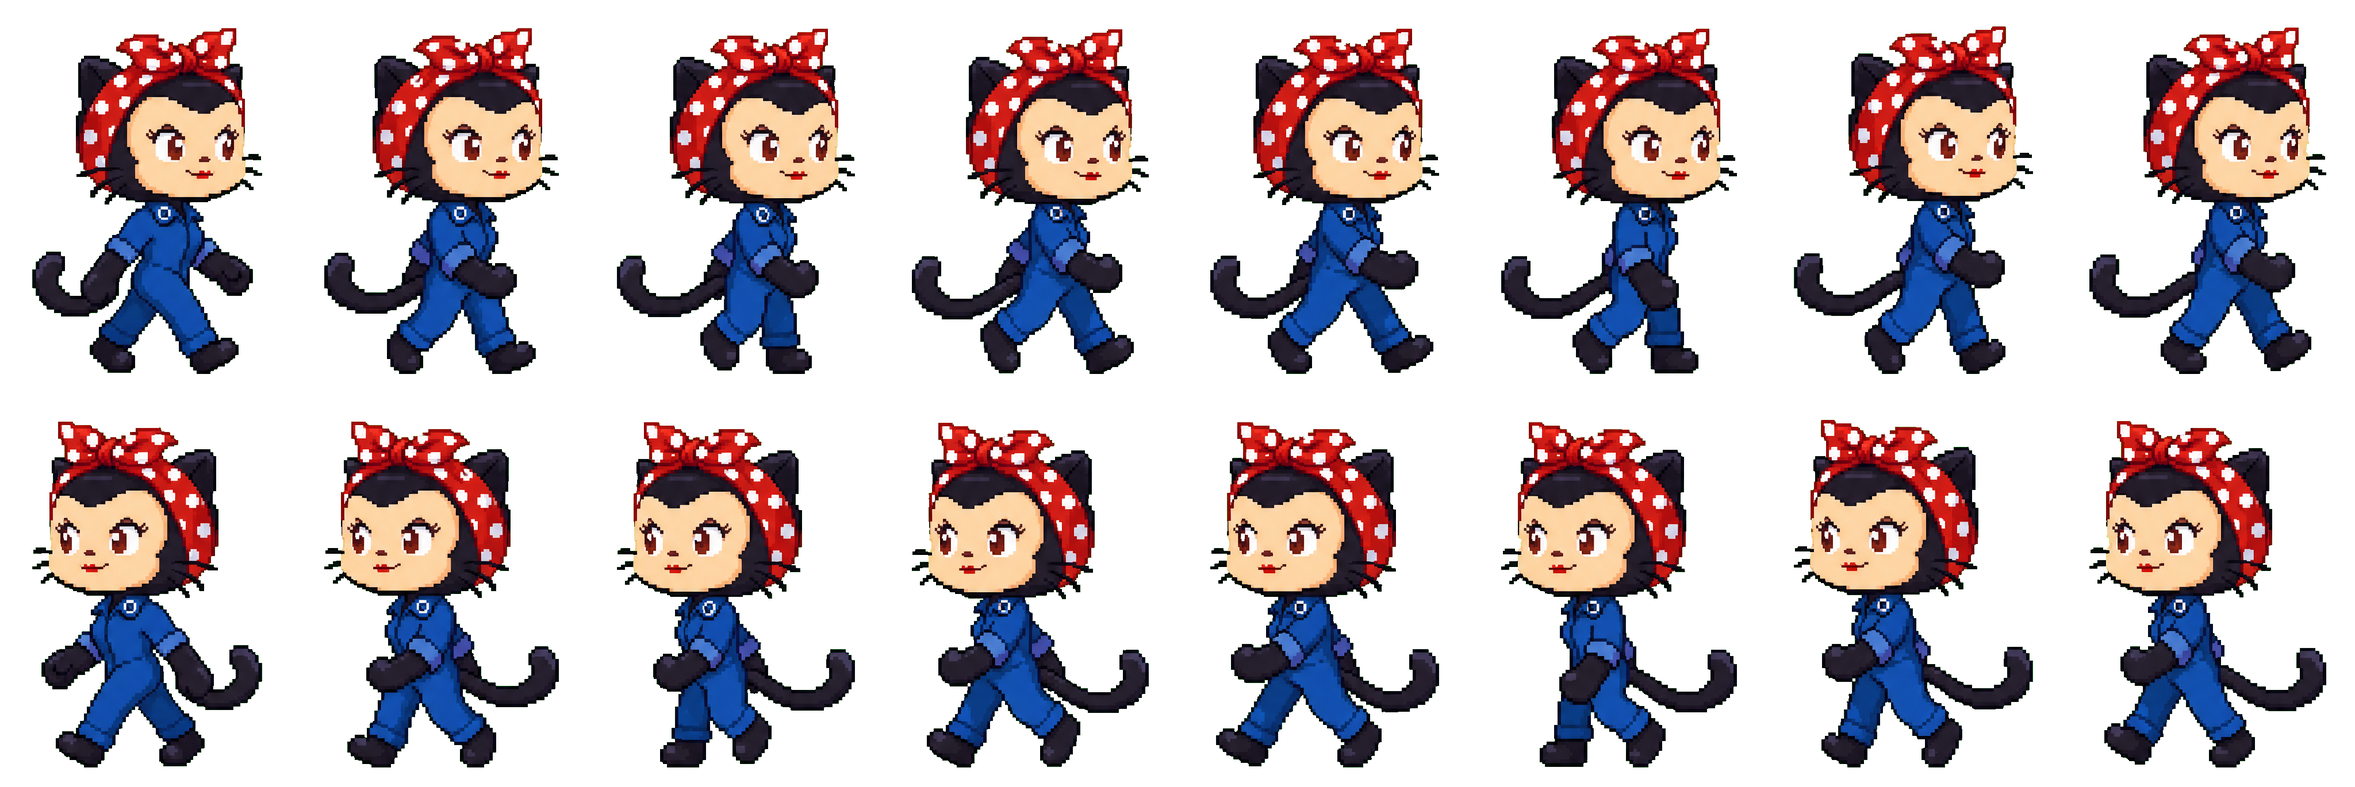
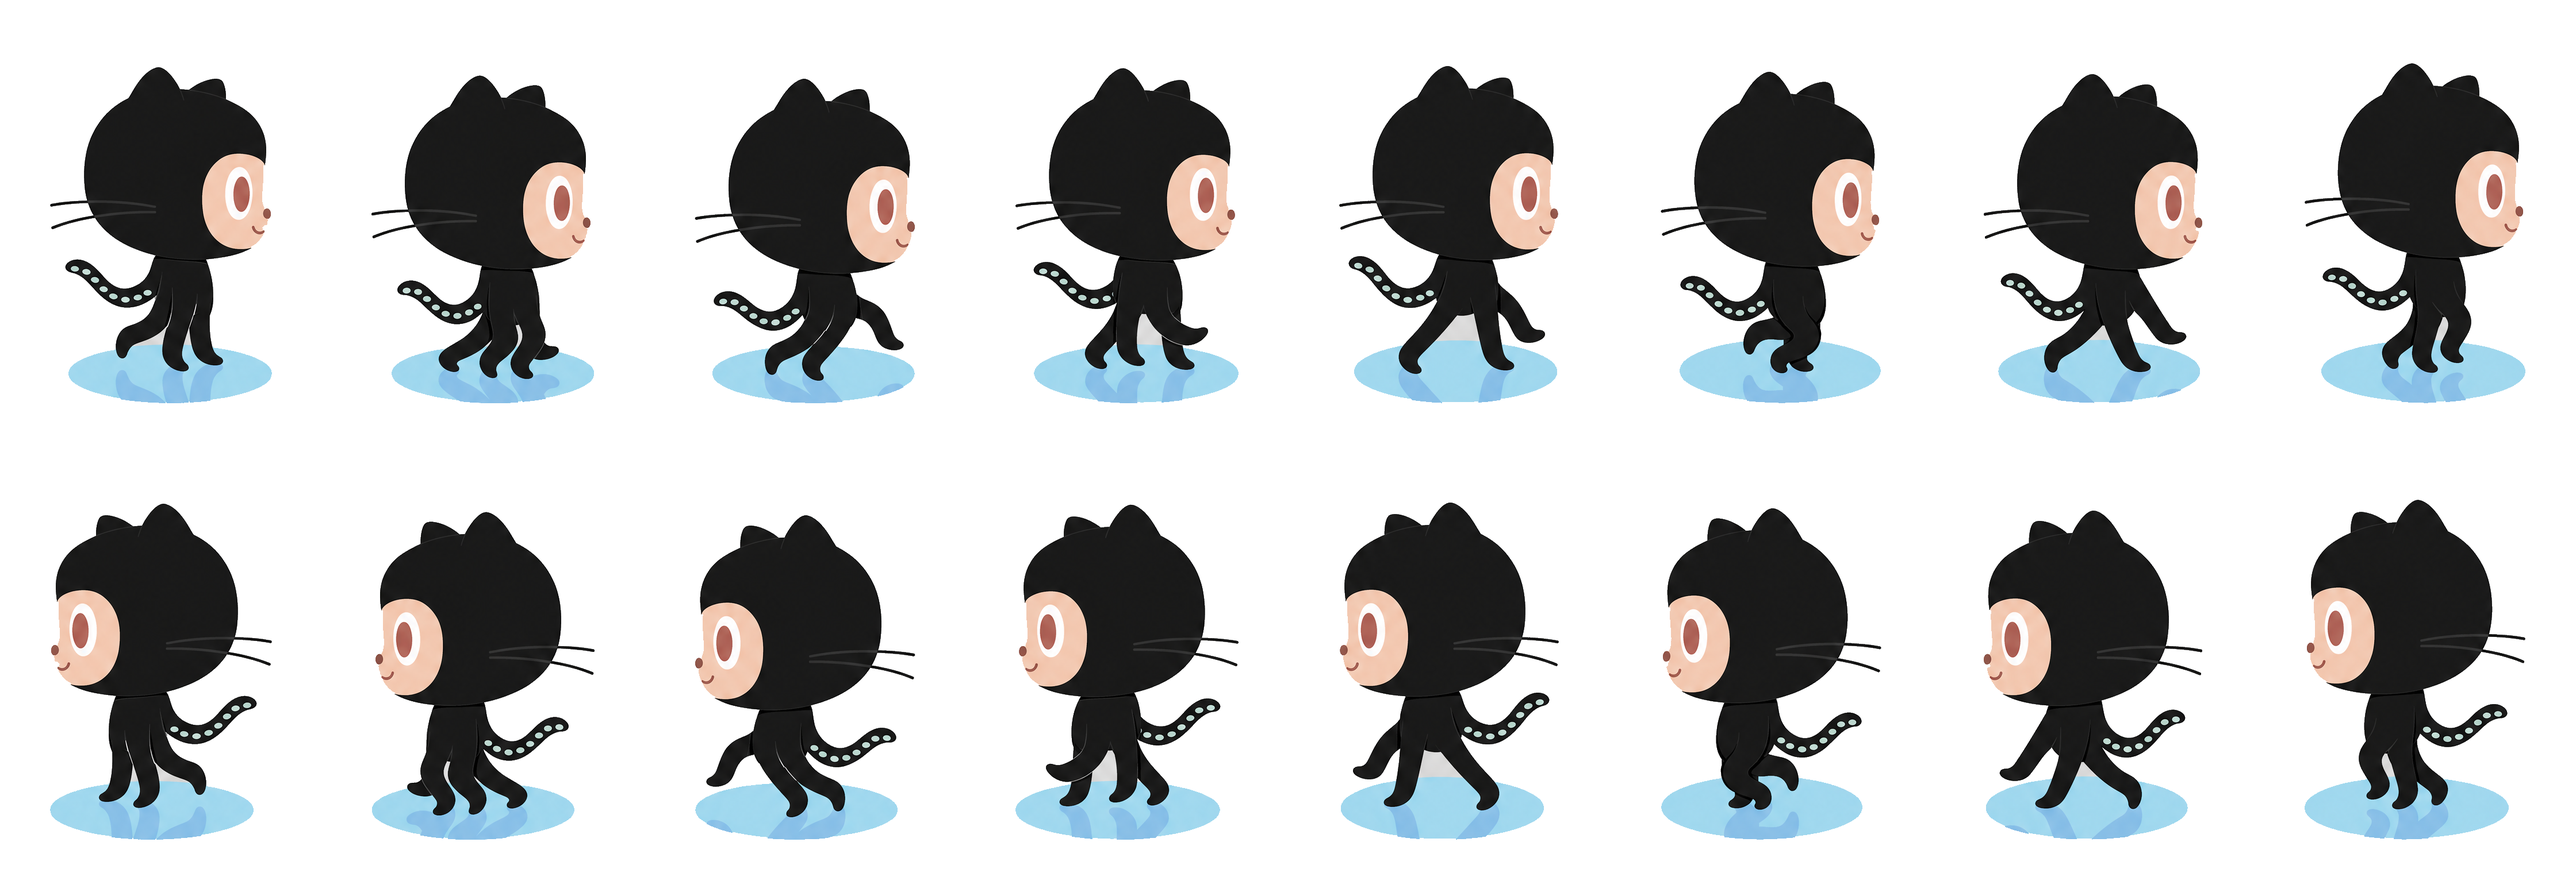
Fix Mona walk face color

diff --git a/assets/characters/mona/README.md b/assets/characters/mona/README.md
@@ -2,5 +2,5 @@
 
 ## Animations
 
-- `walk/mona_walk_right_left.png` — right/left walk cycle spritesheet.
+- `walk/mona_walk_right_left.png` — right/left walk cycle spritesheet, regenerated with gpt-image-2 to preserve correct Mona face color.
 - `jump/mona_jump_right_left_gpt_v3.png` — right/left jump cycle spritesheet generated with gpt-image-2.
